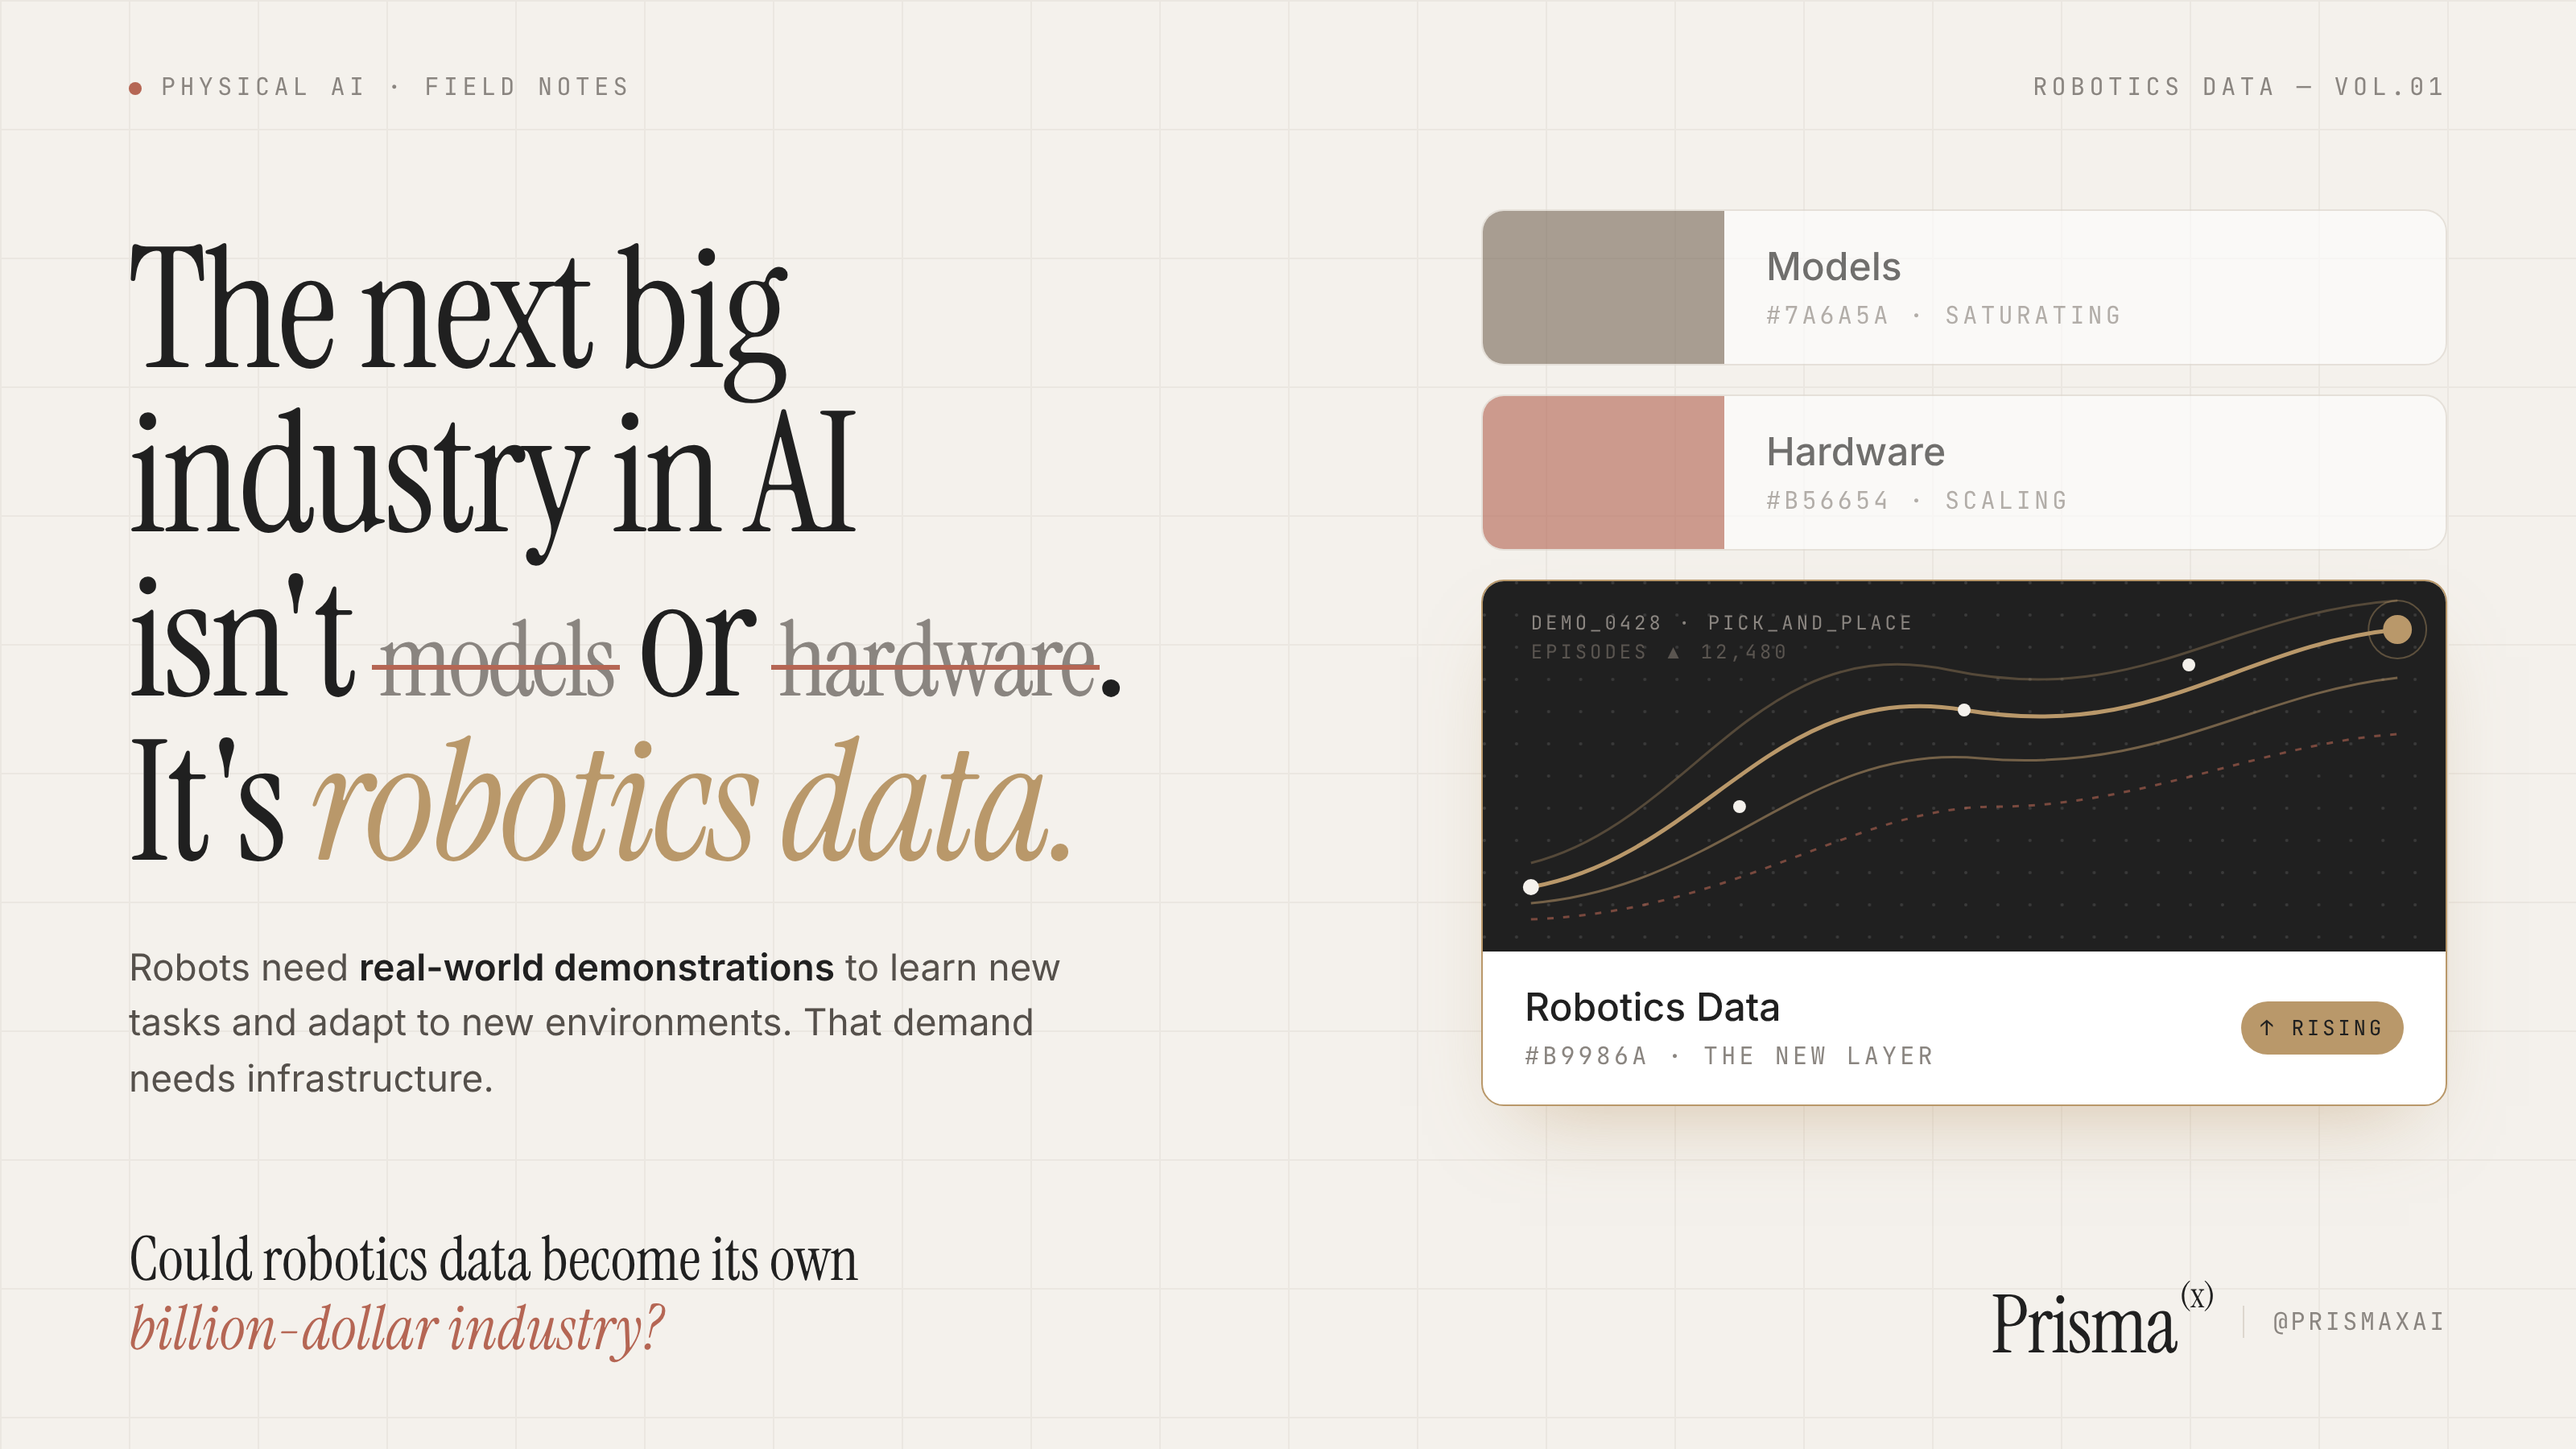
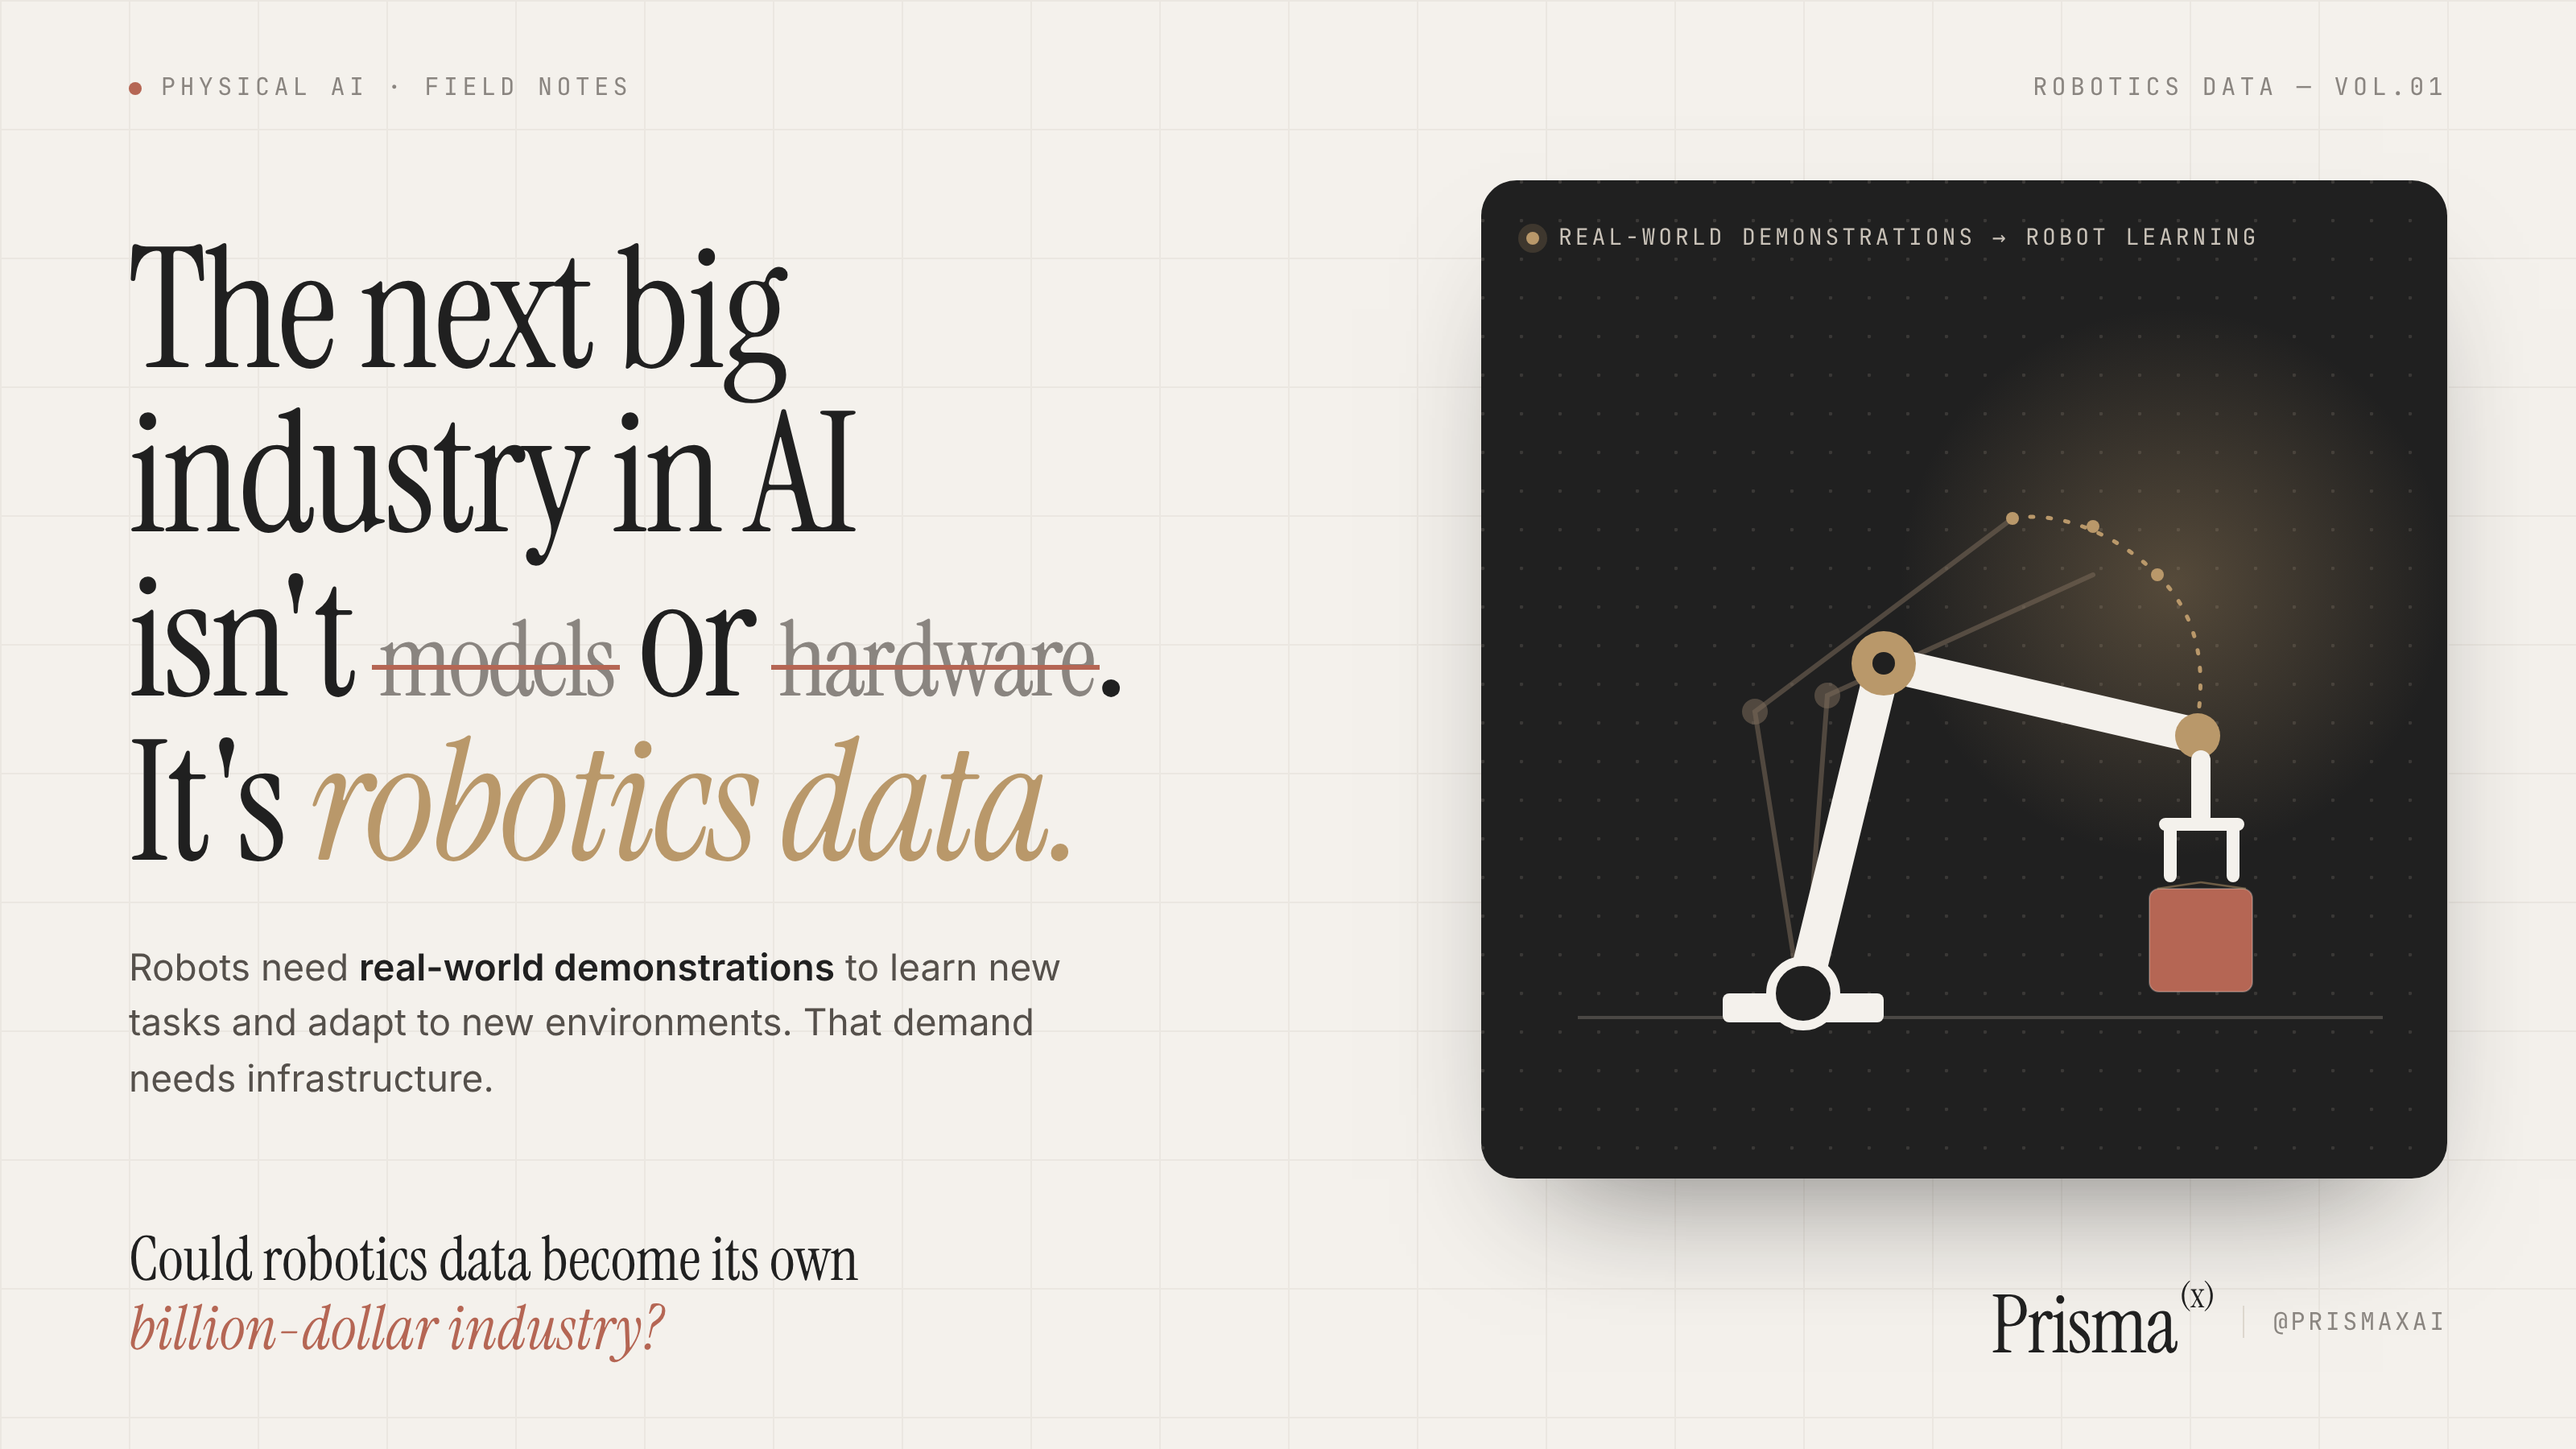
Replace color swatches with robot arm illustration in tweet post
Claude-Session: https://claude.ai/code/session_011ZXH2YdCVmonCsQZQrfUSG

Changed region(s): [[0.5625, 0.1244, 0.9688, 0.8711], [0.625, 0.56, 0.6562, 0.5911], [0.5938, 0.5911, 0.625, 0.6222]]

diff --git a/prismax-post/post.html b/prismax-post/post.html
@@ -26,18 +26,10 @@
   .sub{margin-top:34px;max-width:620px;font-size:23px;line-height:1.5;color:#55504B}
   .sub b{color:var(--black);font-weight:600}
 
-  .stack{padding-top:58px;display:flex;flex-direction:column;gap:18px}
-  .sw{background:var(--card);border:1px solid var(--line);border-radius:14px;overflow:hidden;display:grid;grid-template-columns:150px 1fr}
-  .sw .c{position:relative}
-  .sw .t{padding:20px 26px;display:flex;flex-direction:column;justify-content:center}
-  .sw .n{font-size:24px;font-weight:500}
-  .sw .h{font-family:"JetBrains Mono",monospace;font-size:15px;letter-spacing:.14em;color:var(--muted);margin-top:6px}
-  .sw.dim{opacity:.62}
-  .sw.hero{grid-template-columns:1fr;border-color:var(--gold);box-shadow:0 24px 50px -24px rgba(185,152,106,.55)}
-  .sw.hero .c{height:230px;background:var(--black)}
-  .sw.hero .t{flex-direction:row;justify-content:space-between;align-items:center}
-  .tag{font-family:"JetBrains Mono",monospace;font-size:13px;letter-spacing:.14em;color:var(--black);background:var(--gold);padding:8px 12px;border-radius:999px}
-  svg{position:absolute;inset:0;width:100%;height:100%}
+  .visual{position:relative;margin-top:40px;height:620px;border-radius:22px;overflow:hidden;box-shadow:0 40px 80px -40px rgba(32,32,32,.6)}
+  .visual svg{position:absolute;inset:0;width:100%;height:100%}
+  .cap{position:absolute;left:28px;top:26px;font-family:"JetBrains Mono",monospace;font-size:14px;letter-spacing:.14em;text-transform:uppercase;color:#C9C2B8}
+  .live{display:inline-block;width:8px;height:8px;border-radius:50%;background:var(--gold);margin-right:12px;vertical-align:middle;box-shadow:0 0 0 5px rgba(185,152,106,.2)}
 
   .foot{position:absolute;left:80px;right:80px;bottom:52px;display:flex;justify-content:space-between;align-items:flex-end}
   .q{font-family:"Instrument Serif",serif;font-size:38px;line-height:1.15;max-width:780px}
@@ -57,31 +49,52 @@
       <p class="sub">Robots need <b>real-world demonstrations</b> to learn new tasks and adapt to new environments. That demand needs infrastructure.</p>
     </div>
 
-    <div class="stack">
-      <div class="sw dim"><div class="c" style="background:var(--taupe)"></div><div class="t"><div class="n">Models</div><div class="h">#7A6A5A · SATURATING</div></div></div>
-      <div class="sw dim"><div class="c" style="background:var(--bronze)"></div><div class="t"><div class="n">Hardware</div><div class="h">#B56654 · SCALING</div></div></div>
-      <div class="sw hero">
-        <div class="c">
-          <svg viewBox="0 0 600 230" preserveAspectRatio="none">
-            <defs>
-              <pattern id="g" width="20" height="20" patternUnits="userSpaceOnUse"><circle cx="1" cy="1" r="1" fill="#3a3a3a"/></pattern>
-            </defs>
-            <rect width="600" height="230" fill="url(#g)"/>
-            <!-- demonstration trajectories -->
-            <path d="M30 190 C 140 170, 180 60, 300 80 S 470 40, 570 30" fill="none" stroke="#B9986A" stroke-width="2.5"/>
-            <path d="M30 200 C 150 190, 200 100, 310 110 S 480 70, 570 60" fill="none" stroke="#B9986A" stroke-width="1.5" opacity=".55"/>
-            <path d="M30 175 C 130 150, 170 30, 290 55 S 460 20, 570 12" fill="none" stroke="#B9986A" stroke-width="1.5" opacity=".35"/>
-            <path d="M30 210 C 160 205, 230 140, 320 140 S 490 100, 570 95" fill="none" stroke="#B56654" stroke-width="1.5" opacity=".6" stroke-dasharray="4 6"/>
-            <g fill="#F4F1EC">
-              <circle cx="30" cy="190" r="5"/><circle cx="160" cy="140" r="4"/><circle cx="300" cy="80" r="4"/><circle cx="440" cy="52" r="4"/>
-            </g>
-            <circle cx="570" cy="30" r="9" fill="#B9986A"/><circle cx="570" cy="30" r="18" fill="none" stroke="#B9986A" opacity=".4"/>
-            <text x="30" y="30" fill="#8A8580" font-family="JetBrains Mono" font-size="12" letter-spacing="2">DEMO_0428 · PICK_AND_PLACE</text>
-            <text x="30" y="48" fill="#5a5550" font-family="JetBrains Mono" font-size="12" letter-spacing="2">EPISODES ▲ 12,480</text>
-          </svg>
-        </div>
-        <div class="t"><div><div class="n">Robotics Data</div><div class="h">#B9986A · THE NEW LAYER</div></div><span class="tag">↑ RISING</span></div>
-      </div>
+    <div class="visual">
+      <svg viewBox="0 0 600 620">
+        <defs>
+          <pattern id="g" width="24" height="24" patternUnits="userSpaceOnUse"><circle cx="1" cy="1" r="1.1" fill="#3a3836"/></pattern>
+          <radialGradient id="glow" cx="50%" cy="50%" r="50%"><stop offset="0" stop-color="#B9986A" stop-opacity=".35"/><stop offset="1" stop-color="#B9986A" stop-opacity="0"/></radialGradient>
+        </defs>
+        <rect width="600" height="620" fill="#202020"/>
+        <rect width="600" height="620" fill="url(#g)"/>
+        <circle cx="430" cy="250" r="170" fill="url(#glow)"/>
+
+        <!-- ghost poses: recorded demonstrations -->
+        <g fill="none" stroke="#7A6A5A" stroke-width="3" stroke-linecap="round" opacity=".55">
+          <path d="M200 520 L170 330 L330 210"/>
+          <path d="M200 520 L215 320 L380 245"/>
+        </g>
+        <g fill="#7A6A5A" opacity=".55"><circle cx="170" cy="330" r="8"/><circle cx="215" cy="320" r="8"/></g>
+
+        <!-- demonstration trajectory -->
+        <path d="M330 210 C 360 205, 395 220, 420 245 S 450 300, 445 335" fill="none" stroke="#B9986A" stroke-width="2.5" stroke-dasharray="2 9" stroke-linecap="round"/>
+        <g fill="#B9986A"><circle cx="330" cy="210" r="4"/><circle cx="380" cy="215" r="4"/><circle cx="420" cy="245" r="4"/></g>
+
+        <!-- table + object -->
+        <line x1="60" y1="520" x2="560" y2="520" stroke="#4a4744" stroke-width="2"/>
+        <rect x="415" y="440" width="64" height="64" rx="6" fill="#B56654"/>
+        <rect x="415" y="440" width="64" height="64" rx="6" fill="none" stroke="#F4F1EC" stroke-opacity=".25"/>
+
+        <!-- live robot arm -->
+        <rect x="150" y="505" width="100" height="18" rx="4" fill="#F4F1EC"/>
+        <g stroke="#F4F1EC" stroke-width="22" stroke-linecap="round" fill="none">
+          <path d="M200 505 L250 300"/>
+          <path d="M250 300 L445 345"/>
+        </g>
+        <circle cx="200" cy="505" r="20" fill="#202020" stroke="#F4F1EC" stroke-width="6"/>
+        <circle cx="250" cy="300" r="20" fill="#B9986A"/>
+        <circle cx="250" cy="300" r="7" fill="#202020"/>
+        <!-- wrist + gripper -->
+        <circle cx="445" cy="345" r="14" fill="#B9986A"/>
+        <path d="M447 360 L447 395" stroke="#F4F1EC" stroke-width="12" stroke-linecap="round"/>
+        <path d="M425 400 L470 400 M428 400 L428 432 M467 400 L467 432" stroke="#F4F1EC" stroke-width="8" stroke-linecap="round" fill="none"/>
+
+        <!-- sensor rays -->
+        <g stroke="#B9986A" stroke-width="1.2" opacity=".5">
+          <line x1="447" y1="436" x2="420" y2="440"/><line x1="447" y1="436" x2="475" y2="440"/>
+        </g>
+      </svg>
+      <div class="cap"><span class="live"></span>Real-world demonstrations → Robot learning</div>
     </div>
   </div>
 
